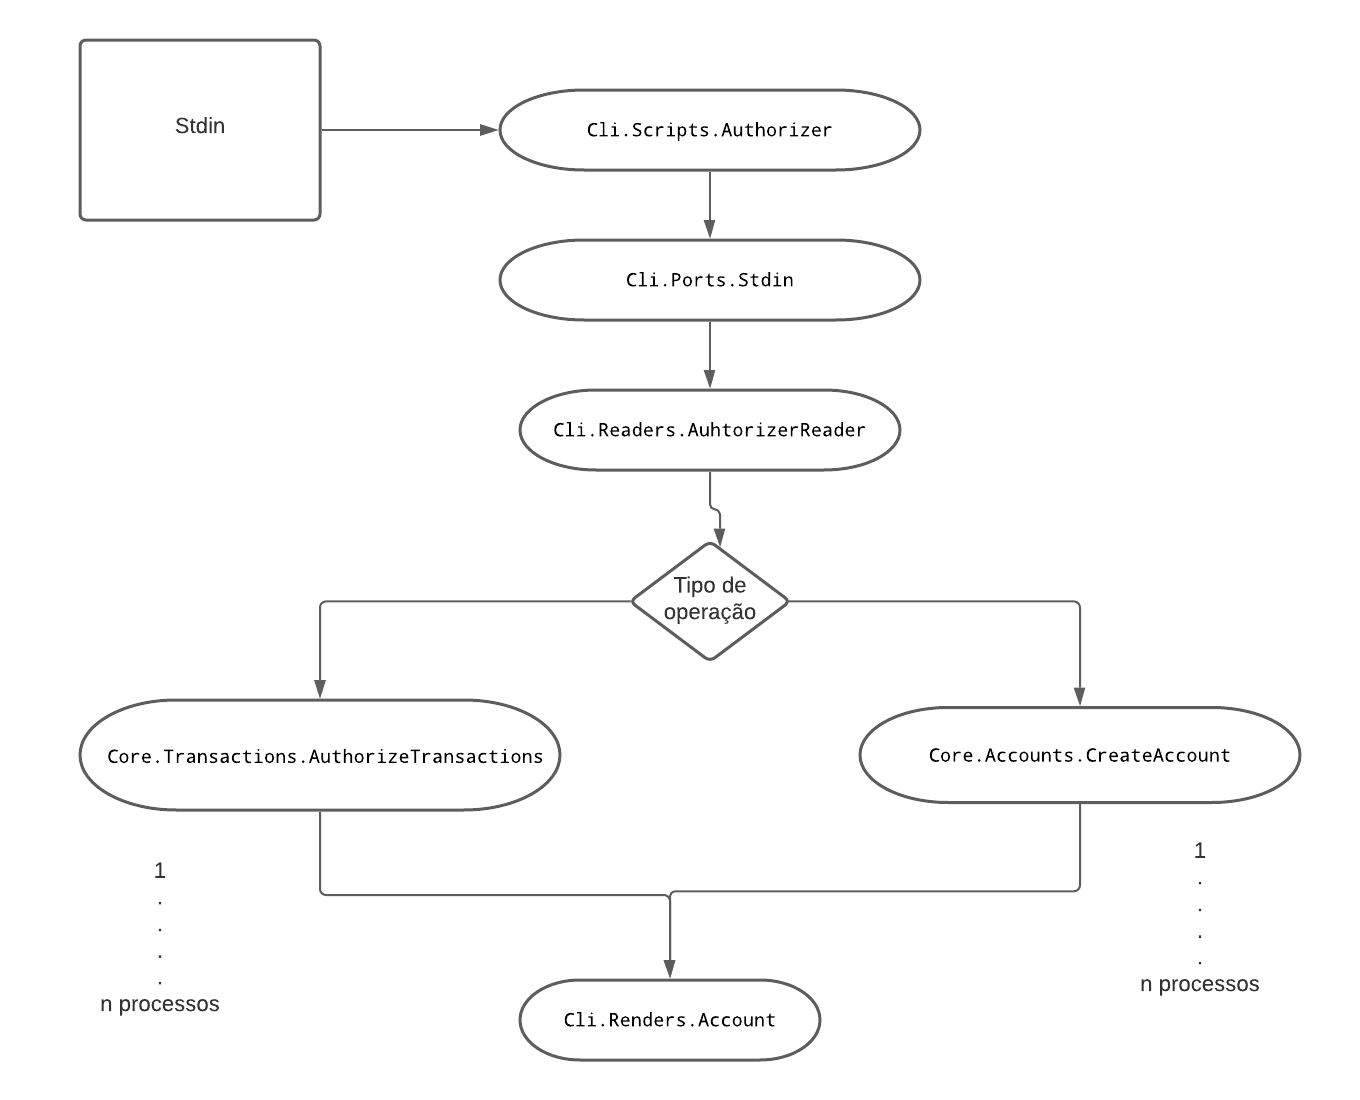
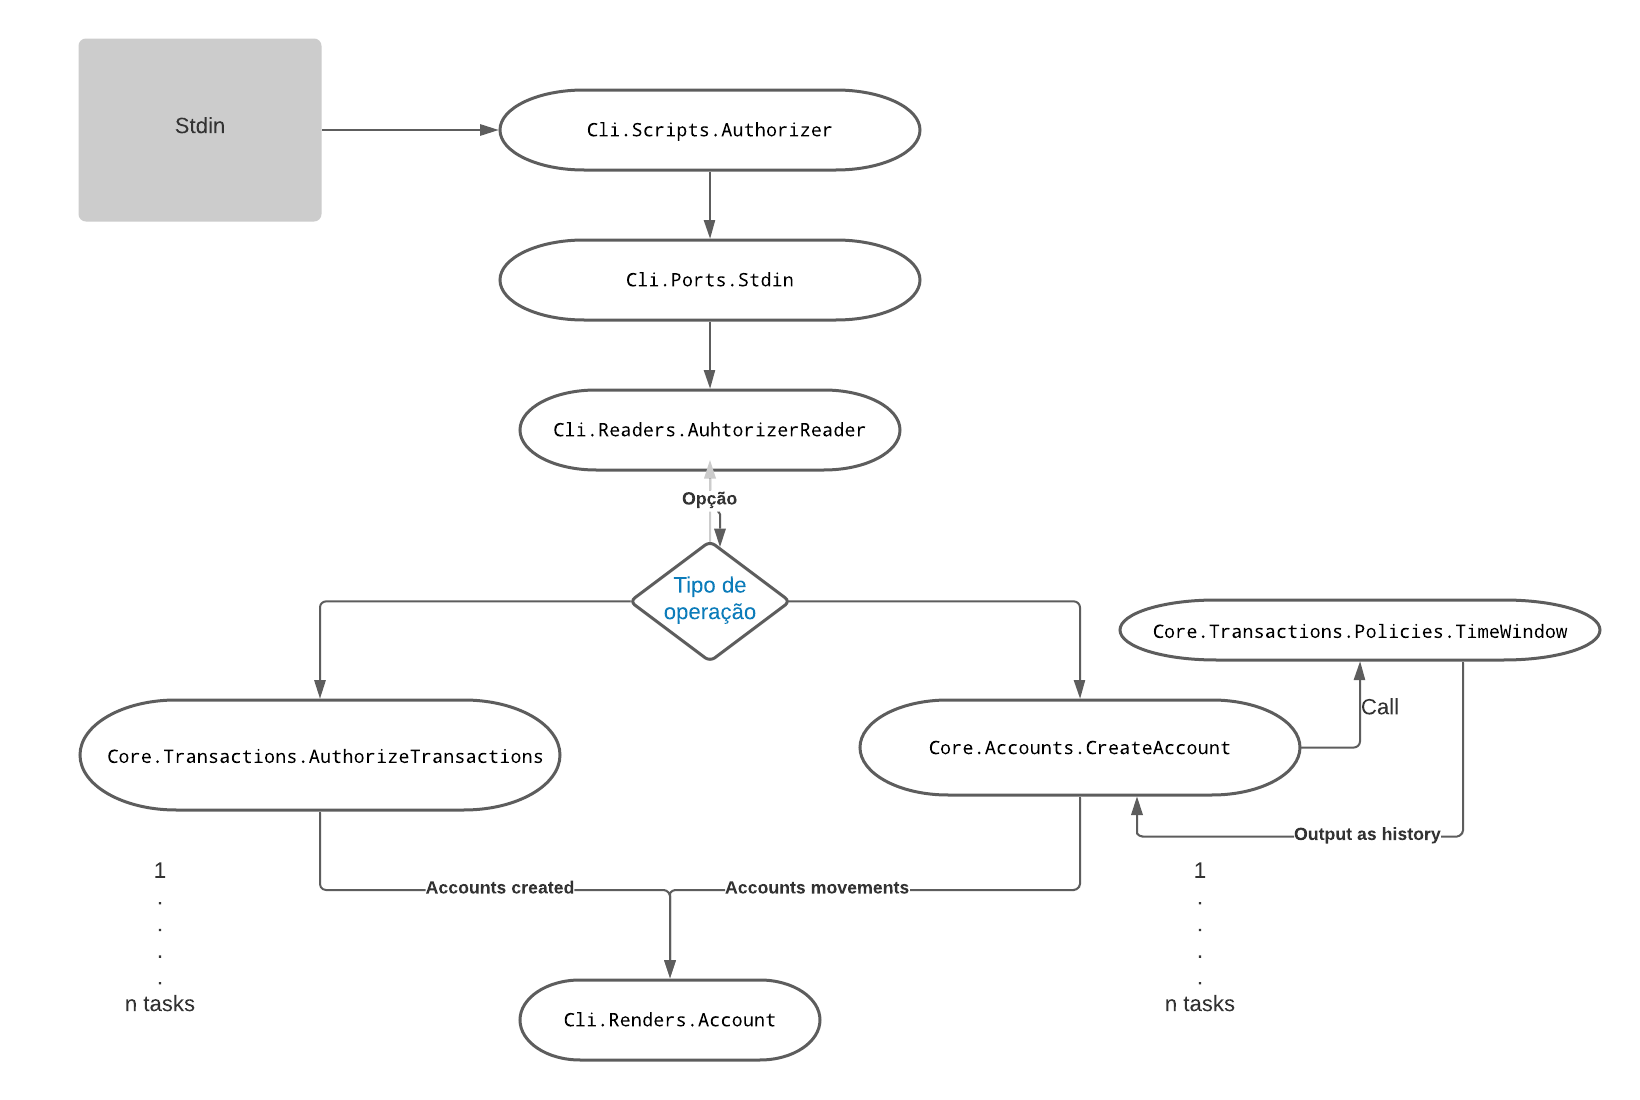
more stuff

diff --git a/README.md b/README.md
@@ -73,66 +73,7 @@ Pode-se usar o arquivo `"operations_sample.json"` para um primeiro caso de teste
     - Caso contrário, ele chama a implementação de um mock para simular o input de stdin nos testes de integração.
 
  2. Cli.Scripts.Authorizer realiza um decode de json para Map de cada entrada da coleção gerada pelo Cli.Ports.Stdin;
- 3. Cli.Readers.AuhtorizerReader realiza um processamento de acordo com a estrutura da coleção. Os casos cobertos são criação de contas e autorização dee transações. Segue abaixo os casos de input tratados pelo módulo:
-    
-    - retorna uma saída com type "accounts que será direcionada para  Core.Accounts.CreateAccount
-
-     ```
-        # Input
-            {"account": {"active-card": false, "available-limit": 750}}
-        # Output
-            {account_data, [{"active-card": false, "available-limit": 750}], "accounts"}
-
-    ```
-
-    - retorna uma saída com type "accounts que será direcionada para Core.Accounts.CreateAccount
-
-    ```
-        # Input
-            {"account": {"active-card": true, "available-limit": 175}}
-            {"account": {"active-card": true, "available-limit": 350}}
-        # Output
-            [
-                {account_data, [
-                {"active-card": true, "available-limit": 175},
-                {"active-card": true, "available-limit": 350}],
-                "accounts"}]
-    ```
-
-    - retorna uma saída com type  "accounts_with_transactions" para Core.Transactions.AuthorizeTransactions
-
-
-    ```
-        # Input
-            {"account": {"active-card": true, "available-limit": 100}}
-            {"transaction": {"merchant": "Burger King", "amount": 20, "time": "2019-02-13T11:00:00.000Z"}}
-        # Output
-            {
-                {"account": {"active-card": true, "available-limit": 100}}, 
-                [ {"merchant": "Burger King", "amount": 20, "time": "2019-02-13T11:00:00.000Z"}], 
-                "accounts_with_transactions"
-            }
-    ```
-    - retorna 2 saídas, onde cada uma é um input de uma instância de Core.Transactions.AuthorizeTransactions
-
-
-    ```
-        # Input
-            {"transaction": {"merchant": "Uber Eats", "amount": 25, "time": "2020-12-
-            01T11:07:00.000Z"}}
-            {"account": {"active-card": true, "available-limit": 225}}
-            {"transaction": {"merchant": "Uber Eats", "amount": 25, "time": "2020-12-01T11:07:00.000Z"}}
-        # Output
-        [
-            {%{}, [
-                 {"merchant": "Uber Eats", "amount": 25, "time": "2020-12-01T11:07:00.000Z"}
-            ], "non_initialized_accounts_with_transactions"},
-            {account_data, [
-                {"merchant": "Uber Eats", "amount": 25, "time": "2020-12-01T11:07:00.000Z"}
-            ], "accounts_with_transactions"}
-        ]```
-
-
+ 3. Cli.Readers.AuhtorizerReader realiza um processamento de acordo com a estrutura da coleção. Os casos cobertos são criação de contas e autorização de transações;
  4. Cada caso irá chamar um módulo apropriado (Core.Transactions.AuthorizeTransactions para autorização de transação ou Core.Accounts.CreateAccount para criação de conta), cada processo contém uma função pública .execute();
  5. Cada .execute chamado será um processo que executará paralelamente com os outros executes;
  6. O módulo Core.Transactions.AuthorizeTransactions chama um módulo auxiliar definido abaixo:
@@ -140,33 +81,34 @@ Pode-se usar o arquivo `"operations_sample.json"` para um primeiro caso de teste
  7. O Core.Transactions.AuthorizeTransactions retorna as movimentações de conta que serão o input do Cli.Renders.Account.render() gerando assim o output da CLI.
    
 ## Libs externas
-    - Jason (https://github.com/michalmuskala/jason) -> decode de json para map;
+    - Jason [here](https://github.com/michalmuskala/jason) -> decode de json para map;
     - Ecto (https://hexdocs.pm/ecto/Ecto.html) -> criação dos models de memória de account e transaction, podendo ser extendido para modelo de banco de dados no futuro;
-    - mox (https://github.com/dashbitco/mox) -> Criação de mocks para o stdin.
-    - credo (https://github.com/rrrene/credo) -> Análise de código estático de código
-    - dialyzer (https://github.com/jeremyjh/dialyxir) -> Análise de código estático de código
+    - mox (https://github.com/dashbitco/mox) -> Criação de mocks para o stdin;
+    - credo (https://github.com/rrrene/credo) -> Análise de código estático de código;
+    - dialyzer (https://github.com/jeremyjh/dialyxir) -> Análise de código estático de código.
+
 ## Nota sobre algumas decisões técnicas
     - Uso da linguagem de programação elixir -> aproveitar o poder da BEAM para concorrência.
     - Trata-se de uma aplicação umbrella que gerencia 2 aplicações:
-        - Core: O núcleo da regra de negócio da aplicação, nela encontra-se os modelos de conta e transação como também as rotinas do autorizador;
-        - Cli: A aplicação responsável por ler os dados do stdin e criar as entradas corretas para as funções de regras de negócio da aplicação Core;
-        - Ambas as aplicações se conversam. 
+      - Core: O núcleo da regra de negócio da aplicação, nela encontra-se os modelos de conta e transação como também as rotinas do autorizador;
+      - Cli: A aplicação responsável por ler os dados do stdin e criar as entradas corretas para as funções de regras de negócio da aplicação Core;
+      - Ambas as aplicações se conversam. 
     - A arch foi concebida para ser basicamente um "map-reduce" de entradas que são escalonadas para diferentes processos que executam concorrentemente. A saída ( Accounts ) é um "reduce"
       dos outputs de cada processo. O módulo usado: https://hexdocs.pm/elixir/1.12/Task.html#async_stream/3
     - Cada instância Core.Transactions.AuthorizeTransactions é uma operação de batch que executa uma lista de transações de uma determinada conta. Ou seja, é escalonado um processo para
       cada conta e suas operações ( Seja autorização de transações ou criação de contas)
 
     - Cada autorizador é um "pipeline" que compartilha uma esturutura definida abaixo:
-        - Core.Types.AuthorizeTransactionsHistory{
-            account_movements_log: list(),
-            transactions: list(),
-            transactions_log: list(),
-            settled_transactions_count: integer()
-         }
-        account_movements_log: é a lista de movimenações bancárias realizadas por cada transação. O estado de cada movimentação com suas violações é guardado aqui;
-        transactions: é a lista de transações, aqui não há alteração de estado, serve apenas para um parseamento primário;
-        transactions_log: é a lista de transações processadas, essa lista é incrementada quando uma transação é liquidada ou rejeitada;
-        settled_transactions_count: contador de transações liquidadas, usada na contagem de transações no apply de policy de janela de tempo.
+      - Core.Types.AuthorizeTransactionsHistory{
+          account_movements_log: list(),
+          transactions: list(),
+          transactions_log: list(),
+          settled_transactions_count: integer()
+       }
+      account_movements_log: é a lista de movimenações bancárias realizadas por cada transação. O estado de cada movimentação com suas violações é guardado aqui;
+      transactions: é a lista de transações, aqui não há alteração de estado, serve apenas para um parseamento primário;
+      transactions_log: é a lista de transações processadas, essa lista é incrementada quando uma transação é liquidada ou rejeitada;
+      settled_transactions_count: contador de transações liquidadas, usada na contagem de transações no apply de policy de janela de tempo.
 
     - Geração de um binário que encapsula todo o software construído. É mais flexível para ambientes que não tem elixir instalado. Além disso, 
       pode-se adicionar o binário no diretório /bin e usá-lo de qualquer outro dir do SO.
